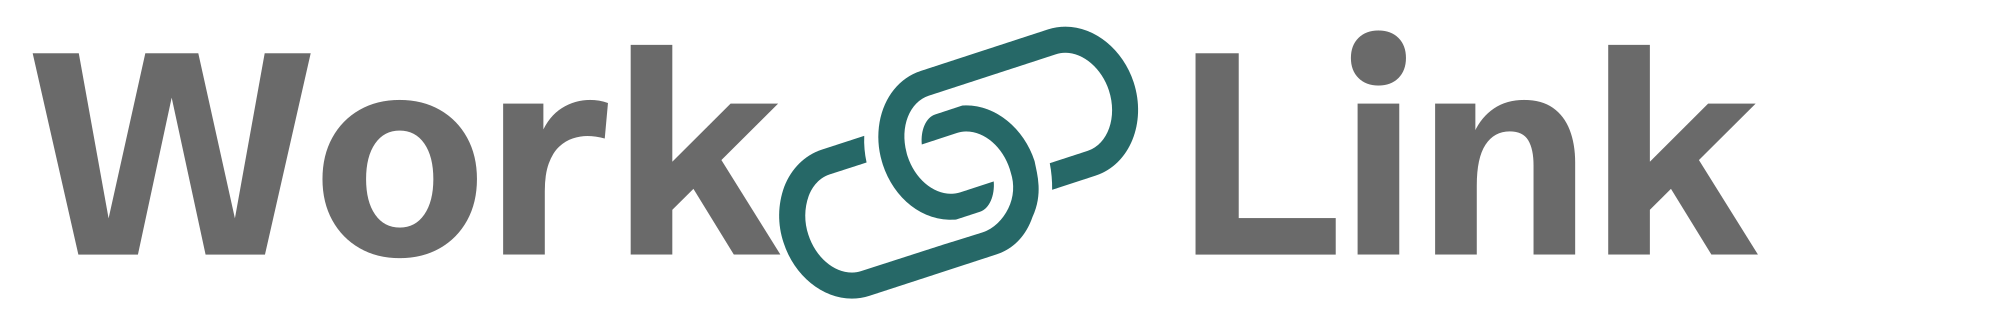
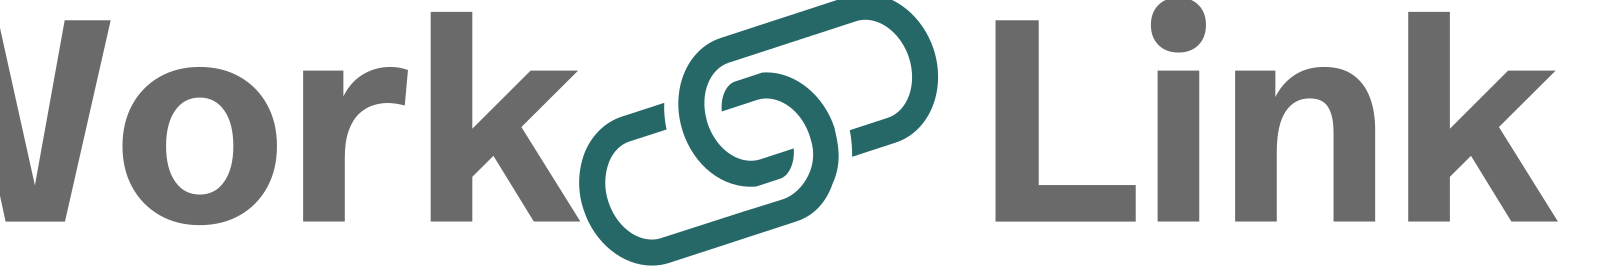
made a registration page for seekers

diff --git a/resources/views/auth/register-seeker.blade.php b/resources/views/auth/register-seeker.blade.php
@@ -1,0 +1,91 @@
+@extends('layouts.main')
+
+@section('title', 'Register as a Seeker')
+
+@section('content')
+    <section>
+        <div class="max-h-screen bg-gray-100 text-gray-900 flex justify-center">
+            <div class="max-w-screen-xl m-0 sm:m-10 bg-white shadow sm:rounded-lg flex justify-center flex-1">
+                <div class="lg:w-1/2 xl:w-5/12 p-6 sm:p-12">
+                    <div class="flex justify-center items-center">
+                        <img src="{{ asset('images/worklink.png') }}" class="w-10/12" />
+                    </div>
+                    <div class="mt-12 flex flex-col items-center">
+                        <h1 class="text-2xl xl:text-3xl font-extrabold text-primary-light">
+                            Registruotis
+                        </h1>
+                        <div class="w-full flex-1 mt-8">
+                            <div class="flex flex-col items-center">
+                                <button
+                                    class="w-full max-w-xs font-bold shadow-sm rounded-lg py-3 bg-gray-200 text-primary flex items-center justify-center transition-all duration-300 ease-in-out focus:outline-none hover:shadow focus:shadow-sm focus:shadow-outline">
+                                    <div class="bg-white p-2 rounded-full">
+                                        <svg class="w-4" viewBox="0 0 533.5 544.3">
+                                            <path
+                                                d="M533.5 278.4c0-18.5-1.5-37.1-4.7-55.3H272.1v104.8h147c-6.1 33.8-25.7 63.7-54.4 82.7v68h87.7c51.5-47.4 81.1-117.4 81.1-200.2z"
+                                                fill="#4285f4" />
+                                            <path
+                                                d="M272.1 544.3c73.4 0 135.3-24.1 180.4-65.7l-87.7-68c-24.4 16.6-55.9 26-92.6 26-71 0-131.2-47.9-152.8-112.3H28.9v70.1c46.2 91.9 140.3 149.9 243.2 149.9z"
+                                                fill="#34a853" />
+                                            <path
+                                                d="M119.3 324.3c-11.4-33.8-11.4-70.4 0-104.2V150H28.9c-38.6 76.9-38.6 167.5 0 244.4l90.4-70.1z"
+                                                fill="#fbbc04" />
+                                            <path
+                                                d="M272.1 107.7c38.8-.6 76.3 14 104.4 40.8l77.7-77.7C405 24.6 339.7-.8 272.1 0 169.2 0 75.1 58 28.9 150l90.4 70.1c21.5-64.5 81.8-112.4 152.8-112.4z"
+                                                fill="#ea4335" />
+                                        </svg>
+                                    </div>
+                                    <span class="ml-3">
+                                Prisijunkite su Google
+                            </span>
+                                </button>
+                            </div>
+
+                            <div class="my-12 border-b text-center">
+                                <div
+                                    class="leading-none px-2 inline-block text-sm text-primary-light tracking-wide font-medium bg-white transform translate-y-1/2">
+                                    Arba prisijunkite su e-mail
+                                </div>
+                            </div>
+
+                            <div class="mx-auto max-w-xs">
+                                <input
+                                    class="w-full px-5 py-4 rounded-lg font-medium bg-gray-100 border border-gray-200 placeholder-gray-500 text-sm focus:outline-none focus:border-gray-400 focus:bg-white"
+                                    type="email" placeholder="Email" />
+                                <input
+                                    class="w-full px-5 py-4 rounded-lg font-medium bg-gray-100 border border-gray-200 placeholder-gray-500 text-sm focus:outline-none focus:border-gray-400 focus:bg-white mt-5"
+                                    type="password" placeholder="Slaptažodis" />
+                                <button
+                                    class="mt-5 tracking-wide font-semibold bg-primary-light text-gray-100 w-full py-4 rounded-lg hover:bg-primary transition-all duration-300 ease-in-out flex items-center justify-center focus:shadow-outline focus:outline-none">
+                                    <svg class="w-6 h-6 -ml-2" fill="none" stroke="currentColor" stroke-width="2"
+                                         stroke-linecap="round" stroke-linejoin="round">
+                                        <path d="M16 21v-2a4 4 0 00-4-4H5a4 4 0 00-4 4v2" />
+                                        <circle cx="8.5" cy="7" r="4" />
+                                        <path d="M20 8v6M23 11h-6" />
+                                    </svg>
+                                    <span class="ml-3">
+                                Registruotis
+                            </span>
+                                </button>
+                                <p class="mt-6 text-xs text-gray-600 text-center">
+                                    Sutinku su nustatytomis <span class="text-primary font-semibold">WorkLink</span>
+                                    <a href="#" class="border-b border-gray-500 border-dotted">
+                                        Taisyklėmis
+                                    </a>
+                                    ir
+                                    <a href="#" class="border-b border-gray-500 border-dotted">
+                                        Privatumo politika
+                                    </a>
+                                </p>
+                            </div>
+                        </div>
+                    </div>
+                </div>
+                <div class="flex-1 bg-indigo-100 text-center hidden lg:flex">
+                    <div class="m-12 xl:m-16 w-full bg-contain bg-center bg-no-repeat"
+                         style="background-image: url('https://storage.googleapis.com/devitary-image-host.appspot.com/15848031292911696601-undraw_designer_life_w96d.svg');">
+                    </div>
+                </div>
+            </div>
+        </div>
+    </section>
+@endsection

diff --git a/routes/web.php b/routes/web.php
@@ -1,5 +1,6 @@
 <?php
 
+use App\Http\Controllers\Auth\AuthenticatedSessionController;
 use App\Http\Controllers\Auth\RegisteredUserController;
 use App\Http\Controllers\LandingPageController;
 use App\Http\Controllers\ProfileController;
@@ -29,4 +30,7 @@ Route::post('/register/seeker', [RegisteredUserController::class, 'storeSeeker']
 Route::get('/register/provider', [RegisteredUserController::class, 'createProvider'])->name('register.provider');
 Route::post('/register/provider', [RegisteredUserController::class, 'storeProvider']);
 
-require __DIR__.'/auth.php';
+// Login routes
+Route::get('/login', [AuthenticatedSessionController::class, 'create'])->name('login');
+Route::post('/login', [AuthenticatedSessionController::class, 'store']);
+Route::post('/logout', [AuthenticatedSessionController::class, 'destroy'])->name('logout');

diff --git a/resources/views/layouts/navbar.blade.php b/resources/views/layouts/navbar.blade.php
@@ -1,6 +1,6 @@
 <nav class="relative px-4 py-4 flex justify-between items-center bg-white border-b border-gray-200 shadow-md shadow-primary-light/50">
     <a class="text-3xl font-bold leading-none" href="#">
-        <img src="{{ asset('images/worklink.png') }}" alt="logo" class="h-10">
+        <img src="{{ asset('images/worklinklogo.png') }}" alt="logo" class="h-10">
     </a>
     <div class="lg:hidden">
         <button class="navbar-burger flex items-center text-blue-600 p-3">

diff --git a/resources/views/auth/register-provider.blade.php b/resources/views/auth/register-provider.blade.php
@@ -1,0 +1,5 @@
+@extends('layouts.main')
+
+@section('content')
+
+@endsection
